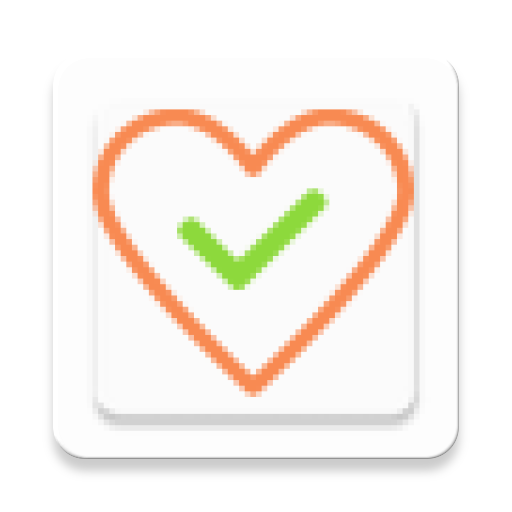
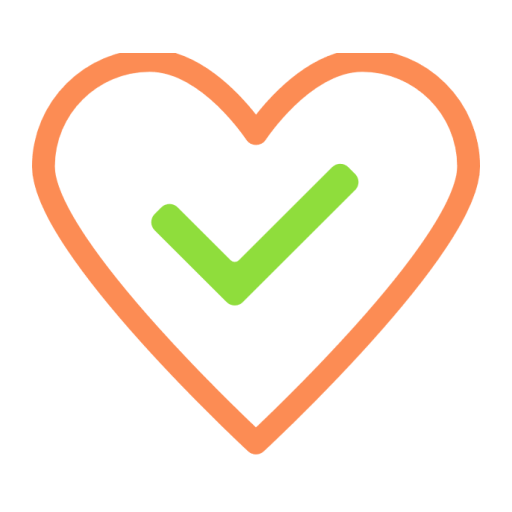
MapIcon was changed

Changed region(s): [[0.0625, 0.0938, 0.9375, 0.9375]]

diff --git a/kindnessClient/app/src/main/java/edu/byui/cit/kindness/KindnessMap.java b/kindnessClient/app/src/main/java/edu/byui/cit/kindness/KindnessMap.java
@@ -46,10 +46,10 @@ public class KindnessMap extends FragmentActivity implements OnMapReadyCallback{
 			Toast.makeText(getApplicationContext(), "LAT: " + lat + " Lon: " + lon, Toast.LENGTH_LONG).show();
 		}
 
-		LatLng rex = new LatLng(lat, lon);
-		mMap.addMarker(new MarkerOptions().position(rex).icon(
-				BitmapDescriptorFactory.fromResource(R.drawable.realicon)));
-		CameraUpdate yourLocation = CameraUpdateFactory.newLatLngZoom(rex, 1);
+		LatLng current = new LatLng(lat, lon);
+		mMap.addMarker(new MarkerOptions().position(current).icon(
+				BitmapDescriptorFactory.fromResource(R.drawable.mapicon)));
+		CameraUpdate yourLocation = CameraUpdateFactory.newLatLngZoom(current, 1);
 		mMap.animateCamera(yourLocation);
 
 	}
